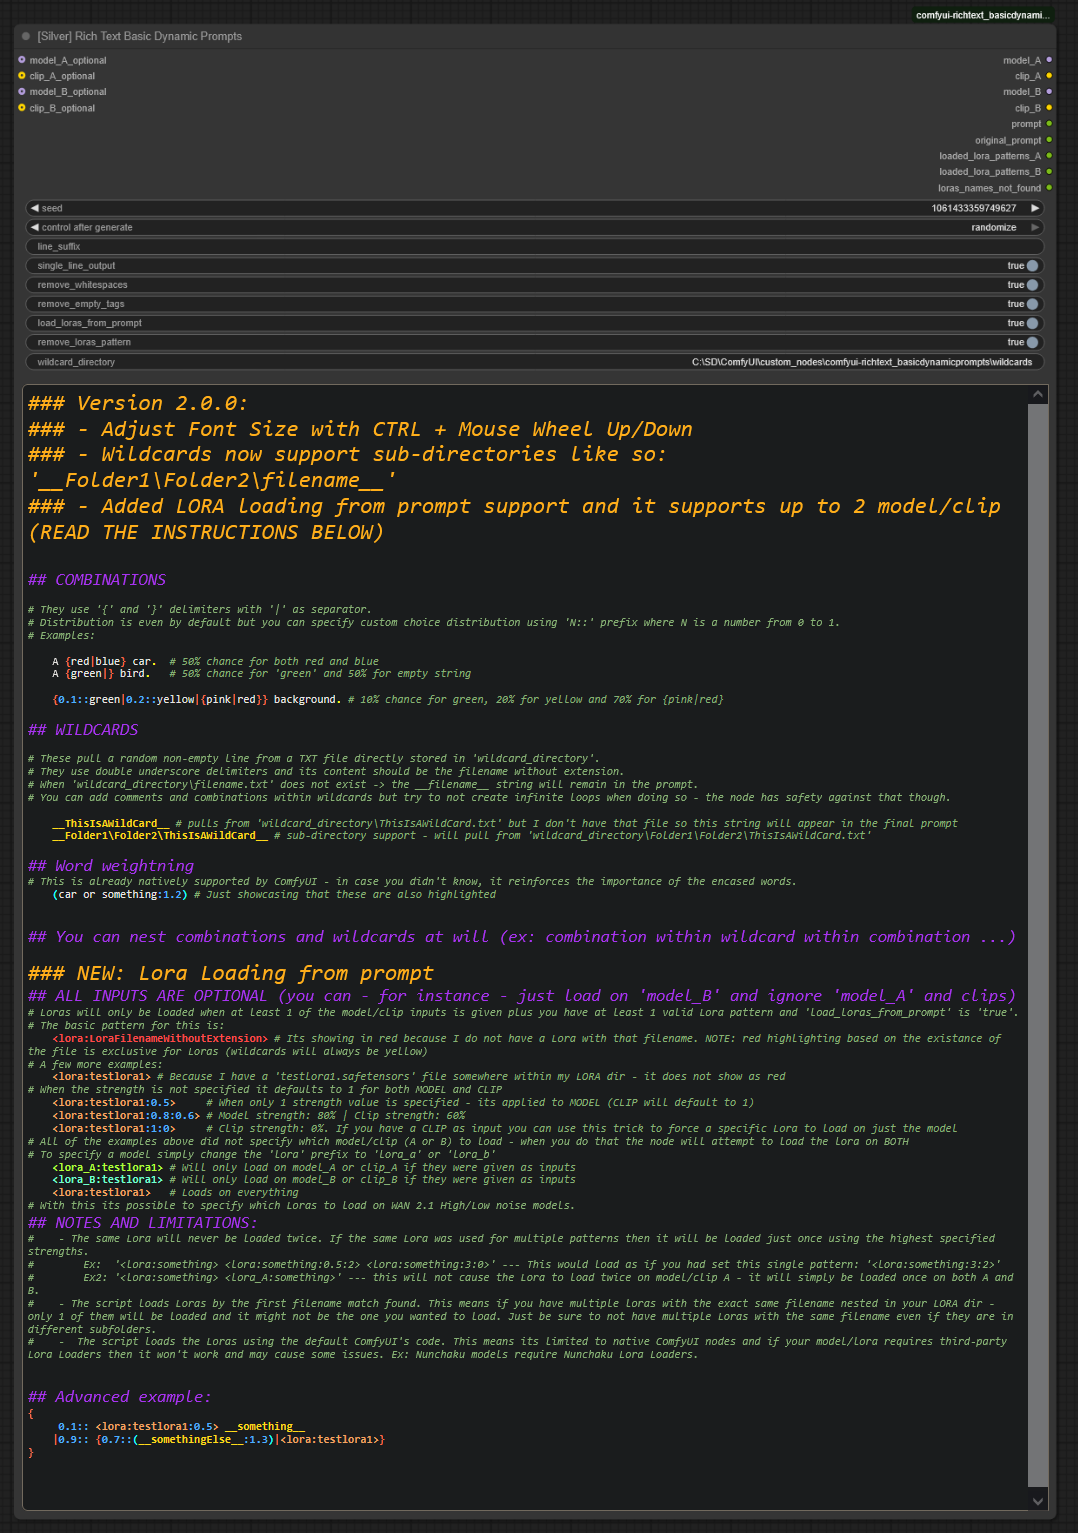
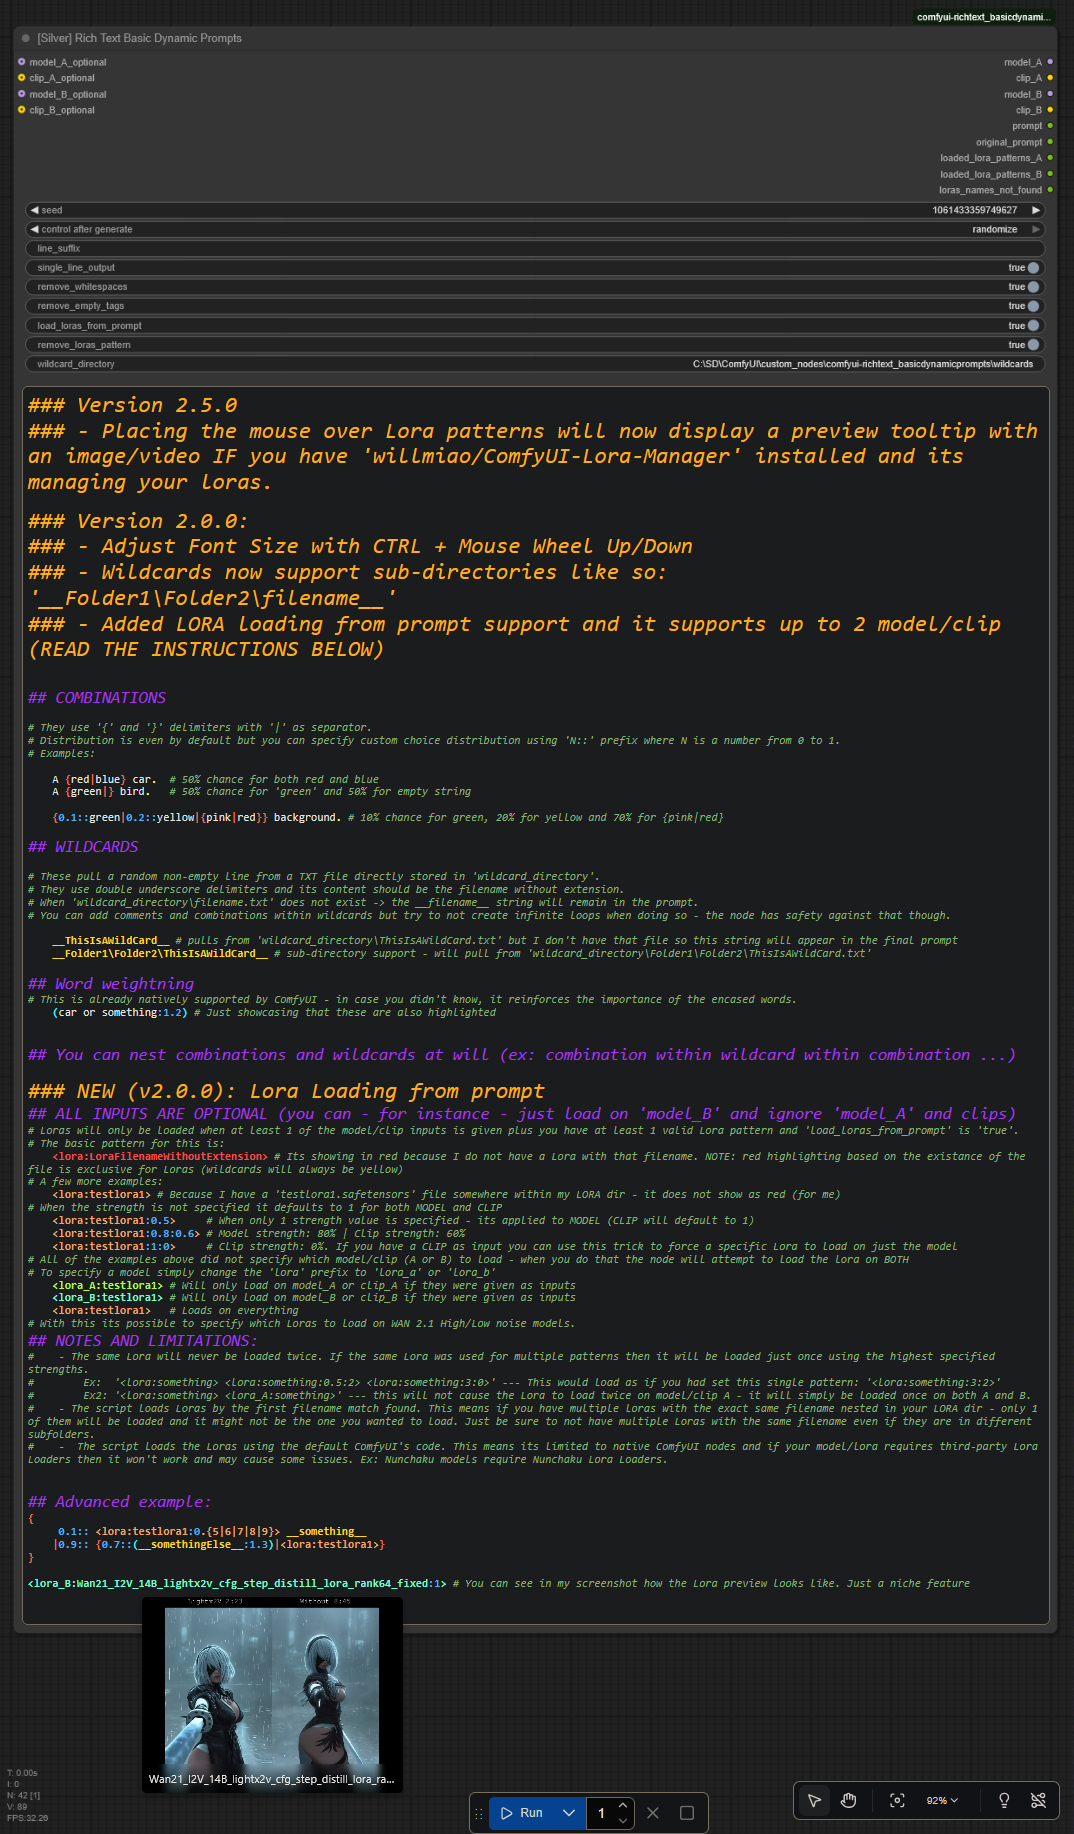
Add files via upload

diff --git a/web/widgets/loras_widget_components.js b/web/widgets/loras_widget_components.js
@@ -1,0 +1,227 @@
+import { api } from "/scripts/api.js";
+
+// Preview tooltip class
+export class PreviewTooltip {
+  constructor() {
+    this.element = document.createElement('div');
+    Object.assign(this.element.style, {
+      position: 'fixed',
+      zIndex: 9999,
+      background: 'rgba(0, 0, 0, 0.85)',
+      borderRadius: '6px',
+      boxShadow: '0 4px 12px rgba(0, 0, 0, 0.3)',
+      display: 'none',
+      overflow: 'hidden',
+      maxWidth: '300px',
+      pointerEvents: 'none', // Prevent interference with autocomplete
+    });
+    document.body.appendChild(this.element);
+    this.hideTimeout = null;
+    this.isFromAutocomplete = false;
+    
+    // Modified event listeners for autocomplete compatibility
+    this.globalClickHandler = (e) => {
+      // Don't hide if click is on autocomplete dropdown
+      if (!e.target.closest('.comfy-autocomplete-dropdown')) {
+        this.hide();
+      }
+    };
+    document.addEventListener('click', this.globalClickHandler);
+    
+    this.globalScrollHandler = () => this.hide();
+    document.addEventListener('scroll', this.globalScrollHandler, true);
+  }
+
+  async show(loraName, x, y, fromAutocomplete = false) {
+    try {
+      // Clear previous hide timer
+      if (this.hideTimeout) {
+        clearTimeout(this.hideTimeout);
+        this.hideTimeout = null;
+      }
+
+      // Track if this is from autocomplete
+      this.isFromAutocomplete = fromAutocomplete;
+
+      // Don't redisplay the same lora preview
+      if (this.element.style.display === 'block' && this.currentLora === loraName) {
+        this.position(x, y);
+        return;
+      }
+
+      this.currentLora = loraName;
+      
+      // Get preview URL
+      const response = await api.fetchApi(`/lm/loras/preview-url?name=${encodeURIComponent(loraName)}`, {
+        method: 'GET'
+      });
+
+      if (!response.ok) {
+        throw new Error('Failed to fetch preview URL');
+      }
+
+      const data = await response.json();
+      if (!data.success || !data.preview_url) {
+        throw new Error('No preview available');
+      }
+
+      // Clear existing content
+      while (this.element.firstChild) {
+        this.element.removeChild(this.element.firstChild);
+      }
+
+      // Create media container with relative positioning
+      const mediaContainer = document.createElement('div');
+      Object.assign(mediaContainer.style, {
+        position: 'relative',
+        maxWidth: '300px',
+        maxHeight: '300px',
+      });
+
+      const isVideo = data.preview_url.endsWith('.mp4');
+      const mediaElement = isVideo ? document.createElement('video') : document.createElement('img');
+
+      Object.assign(mediaElement.style, {
+        maxWidth: '300px',
+        maxHeight: '300px',
+        objectFit: 'contain',
+        display: 'block',
+      });
+
+      if (isVideo) {
+        mediaElement.autoplay = true;
+        mediaElement.loop = true;
+        mediaElement.muted = true;
+        mediaElement.controls = false;
+      }
+
+      // Create name label with absolute positioning
+      const nameLabel = document.createElement('div');
+      nameLabel.textContent = loraName;
+      Object.assign(nameLabel.style, {
+        position: 'absolute',
+        bottom: '0',
+        left: '0',
+        right: '0',
+        padding: '8px',
+        color: 'white',
+        fontSize: '13px',
+        fontFamily: "'Inter', 'Segoe UI', system-ui, -apple-system, sans-serif",
+        background: 'linear-gradient(transparent, rgba(0, 0, 0, 0.8))',
+        whiteSpace: 'nowrap',
+        overflow: 'hidden',
+        textOverflow: 'ellipsis',
+        textAlign: 'center',
+        backdropFilter: 'blur(4px)',
+        WebkitBackdropFilter: 'blur(4px)',
+      });
+
+      mediaContainer.appendChild(mediaElement);
+      mediaContainer.appendChild(nameLabel);
+      this.element.appendChild(mediaContainer);
+      
+      // Show element with opacity 0 first to get dimensions
+      this.element.style.opacity = '0';
+      this.element.style.display = 'block';
+      
+      // Wait for media to load before positioning
+      const waitForLoad = () => {
+        return new Promise((resolve) => {
+          if (isVideo) {
+            if (mediaElement.readyState >= 2) { // HAVE_CURRENT_DATA
+              resolve();
+            } else {
+              mediaElement.addEventListener('loadeddata', resolve, { once: true });
+              mediaElement.addEventListener('error', resolve, { once: true });
+            }
+          } else {
+            if (mediaElement.complete) {
+              resolve();
+            } else {
+              mediaElement.addEventListener('load', resolve, { once: true });
+              mediaElement.addEventListener('error', resolve, { once: true });
+            }
+          }
+          
+          // Set a timeout to prevent hanging
+          setTimeout(resolve, 1000);
+        });
+      };
+
+      // Set source after setting up load listeners
+      mediaElement.src = data.preview_url;
+      
+      // Wait for content to load, then position and show
+      await waitForLoad();
+      
+      // Small delay to ensure layout is complete
+      requestAnimationFrame(() => {
+        this.position(x, y);
+        this.element.style.transition = 'opacity 0.15s ease';
+        this.element.style.opacity = '1';
+      });
+    } catch (error) {
+      console.warn('Failed to load preview:', error);
+    }
+  }
+
+  position(x, y) {
+    // Ensure preview box doesn't exceed viewport boundaries
+    const rect = this.element.getBoundingClientRect();
+    const viewportWidth = window.innerWidth;
+    const viewportHeight = window.innerHeight;
+
+    let left = x + 10; // Default 10px offset to the right of mouse
+    let top = y + 10;  // Default 10px offset below mouse
+
+    // Check right boundary
+    if (left + rect.width > viewportWidth) {
+      left = x - rect.width - 10;
+    }
+
+    // Check bottom boundary
+    if (top + rect.height > viewportHeight) {
+      top = y - rect.height - 10;
+    }
+
+    // Ensure minimum distance from edges
+    left = Math.max(10, Math.min(left, viewportWidth - rect.width - 10));
+    top = Math.max(10, Math.min(top, viewportHeight - rect.height - 10));
+
+    Object.assign(this.element.style, {
+      left: `${left}px`,
+      top: `${top}px`
+    });
+  }
+
+  hide() {
+    // Use fade-out effect
+    if (this.element.style.display === 'block') {
+      this.element.style.opacity = '0';
+      this.hideTimeout = setTimeout(() => {
+        this.element.style.display = 'none';
+        this.currentLora = null;
+        this.isFromAutocomplete = false;
+        // Stop video playback
+        const video = this.element.querySelector('video');
+        if (video) {
+          video.pause();
+        }
+        this.hideTimeout = null;
+      }, 150);
+    }
+  }
+
+  cleanup() {
+    if (this.hideTimeout) {
+      clearTimeout(this.hideTimeout);
+    }
+    // Remove event listeners properly
+    document.removeEventListener('click', this.globalClickHandler);
+    document.removeEventListener('scroll', this.globalScrollHandler, true);
+    this.element.remove();
+  }
+}
+
+
+

diff --git a/web/nodes/nodes.js b/web/nodes/nodes.js
@@ -1,5 +1,5 @@
 import { app } from "../../../scripts/app.js";
-
+import { PreviewTooltip } from "../widgets/loras_widget_components.js";
 
 app.registerExtension({
     name: "Comfy.SILVER_BasicDynamicPrompts",
@@ -184,6 +184,20 @@ app.registerExtension({
             origOnNodeCreated?.apply(this, arguments);
             console.log("[SILVER_BasicDynamicPrompts] JS initialized for:", this.title);
 			
+			// --- NEW: TOOLTIP SETUP ---
+            // Instantiate the tooltip once, if the class is available
+            let tooltip = null;
+            if (PreviewTooltip) {
+                tooltip = new PreviewTooltip();
+            } else {
+                console.warn("[SILVER_BasicDynamicPrompts] PreviewTooltip not found. Is ComfyUI-Lora-Manager or the component file loaded?");
+            }
+
+            let hoverTimeout = null;
+            const HOVER_DELAY = 1000; // 1 second delay before showing tooltip
+            let currentHoverElement = null;
+            // ---------------------------
+			
 			// --- 1. GET AVAILABLE LORAS ---
             const available_loras_stem_widget = this.widgets?.find(w => w.name === "available_loras_stem");
 			available_loras_stem_widget.computeSize = () => [0, 0];
@@ -337,6 +351,74 @@ app.registerExtension({
 				}
 			}, { passive: false });
 			
+			
+			
+			// ----------------------------------------------------
+            // 3. NEW: MOUSE/HOVER EVENT LISTENERS FOR LORA PREVIEW
+            // ----------------------------------------------------
+
+            // 3a. Handle mouse movement/hover
+            editor.addEventListener("mousemove", (e) => {
+				if (!tooltip) return; // Exit if tooltip is not available (lora manager not installed)
+			
+				const target = e.target;
+				
+				// Check if the target is one of the highlighted LoRA spans
+				// This looks for a SPAN containing the text content matching the lora tag pattern
+				const isLoraSpan = target.tagName === 'SPAN' && target.textContent.startsWith('<lora');
+			
+				if (isLoraSpan) {
+					// Extract the raw LoRA tag text
+					const tagText = target.textContent; // e.g., <lora:name:1.0>
+					
+					// Use the same regex from your highlight function to get the clean name
+					const match = tagText.match(/<(lora|lora_a|lora_b):([^:>]+)(?::[^>]*)?>/i);
+					const loraName = match ? match[2].trim() : null;
+			
+					if (loraName) {
+						// Check if we just started hovering over a new element or if the timer is inactive
+						if (hoverTimeout === null) {
+							
+							// Clear any existing timeout just in case
+							if (hoverTimeout) clearTimeout(hoverTimeout);
+							
+							// Set the delay before showing the preview
+							hoverTimeout = setTimeout(async () => {
+								hoverTimeout = null; // Clear the timer ID once triggered
+								// e.clientX/Y are screen coordinates, perfect for fixed positioning
+								// Show the tooltip using the mouse position
+								await tooltip.show(loraName, e.clientX, e.clientY); 
+							}, HOVER_DELAY);
+						}
+						
+						// If the tooltip is already visible (meaning the timer has elapsed), keep updating its position
+						if (tooltip.element.style.display === 'block') {
+							tooltip.position(e.clientX, e.clientY);
+						}
+			
+					} else {
+						// The span looked like a LoRA but the name extraction failed, hide everything.
+						if (hoverTimeout) clearTimeout(hoverTimeout);
+						hoverTimeout = null;
+						tooltip.hide();
+					}
+				} else {
+					// Not hovering over a highlighted LoRA span.
+					// Clear the timer and hide the tooltip.
+					if (hoverTimeout) clearTimeout(hoverTimeout);
+					hoverTimeout = null;
+					tooltip.hide();
+				}
+			});
+			
+			editor.addEventListener("mouseleave", () => {
+				if (!tooltip) return;
+				if (hoverTimeout) clearTimeout(hoverTimeout);
+				hoverTimeout = null;
+				tooltip.hide();
+			});
+			
+			
             
             // --- Use ComfyUI's DOM widget system ---
             const widget = this.addDOMWidget(`richprompt_widget_${this.id}`, "dom", editor, {
@@ -348,8 +430,13 @@ app.registerExtension({
             this.setDirtyCanvas(true, true);
             
             // cleanup
+			const origOnRemoved = this.onRemoved;
             this.onRemoved = function() {
+				origOnRemoved?.apply(this, arguments);
                 editor.remove();
+				if (tooltip) {
+                    tooltip.cleanup();
+                }
             };
         };
 		

diff --git a/nodes.py b/nodes.py
@@ -12,7 +12,10 @@ from comfy.utils import load_torch_file
 
 WILDCARD_DIR = os.path.join(os.path.dirname(os.path.abspath(__file__)), 'wildcards')
 
-DEFAULT_PROMPT = r"""### Version 2.0.0:
+DEFAULT_PROMPT = r"""### Version 2.5.0
+### - Placing the mouse over Lora patterns will now display a preview tooltip with an image/video IF you have 'willmiao/ComfyUI-Lora-Manager' installed and its managing your loras.
+
+### Version 2.0.0:
 ### - Adjust Font Size with CTRL + Mouse Wheel Up/Down 
 ### - Wildcards now support sub-directories like so: '__Folder1\Folder2\filename__'
 ### - Added LORA loading from prompt support and it supports up to 2 model/clip  (READ THE INSTRUCTIONS BELOW)
@@ -52,7 +55,7 @@ DEFAULT_PROMPT = r"""### Version 2.0.0:
 # The basic pattern for this is:
     <lora:LoraFilenameWithoutExtension> # Its showing in red because I do not have a Lora with that filename. NOTE: red highlighting based on the existance of the file is exclusive for Loras (wildcards will always be yellow)
 # A few more examples:
-    <lora:testlora1> # Because I have a 'testlora1.safetensors' file somewhere within my LORA dir - it does not show as red
+    <lora:testlora1> # Because I have a 'testlora1.safetensors' file somewhere within my LORA dir - it does not show as red (for me)
 # When the strength is not specified it defaults to 1 for both MODEL and CLIP
     <lora:testlora1:0.5>     # When only 1 strength value is specified - its applied to MODEL (CLIP will default to 1)
     <lora:testlora1:0.8:0.6> # Model strength: 80% | Clip strength: 60%
@@ -73,7 +76,7 @@ DEFAULT_PROMPT = r"""### Version 2.0.0:
 
 ## Advanced example:
 {
-     0.1:: <lora:testlora1:0.5> __something__
+     0.1:: <lora:testlora1:0.{5|6|7|8|9}> __something__
     |0.9:: {0.7::(__somethingElse__:1.3)|<lora:testlora1>}
 }
 
